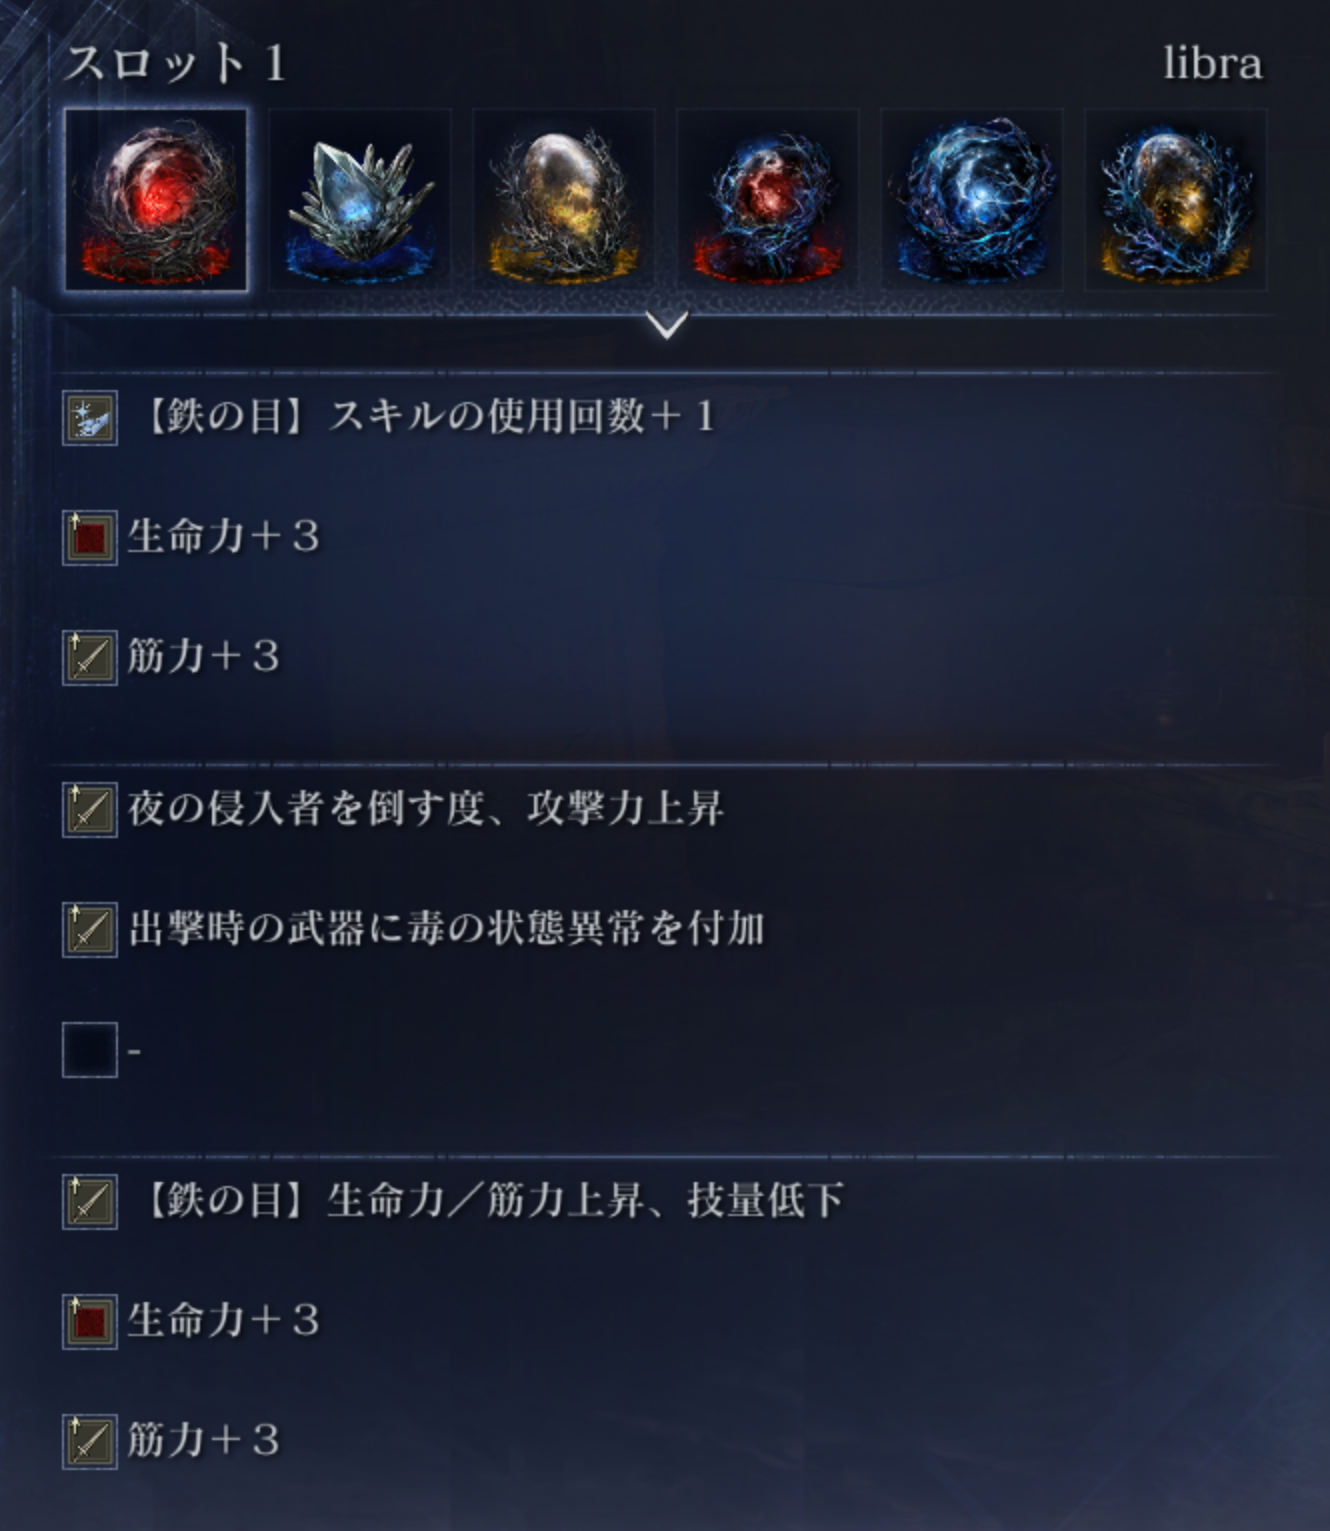
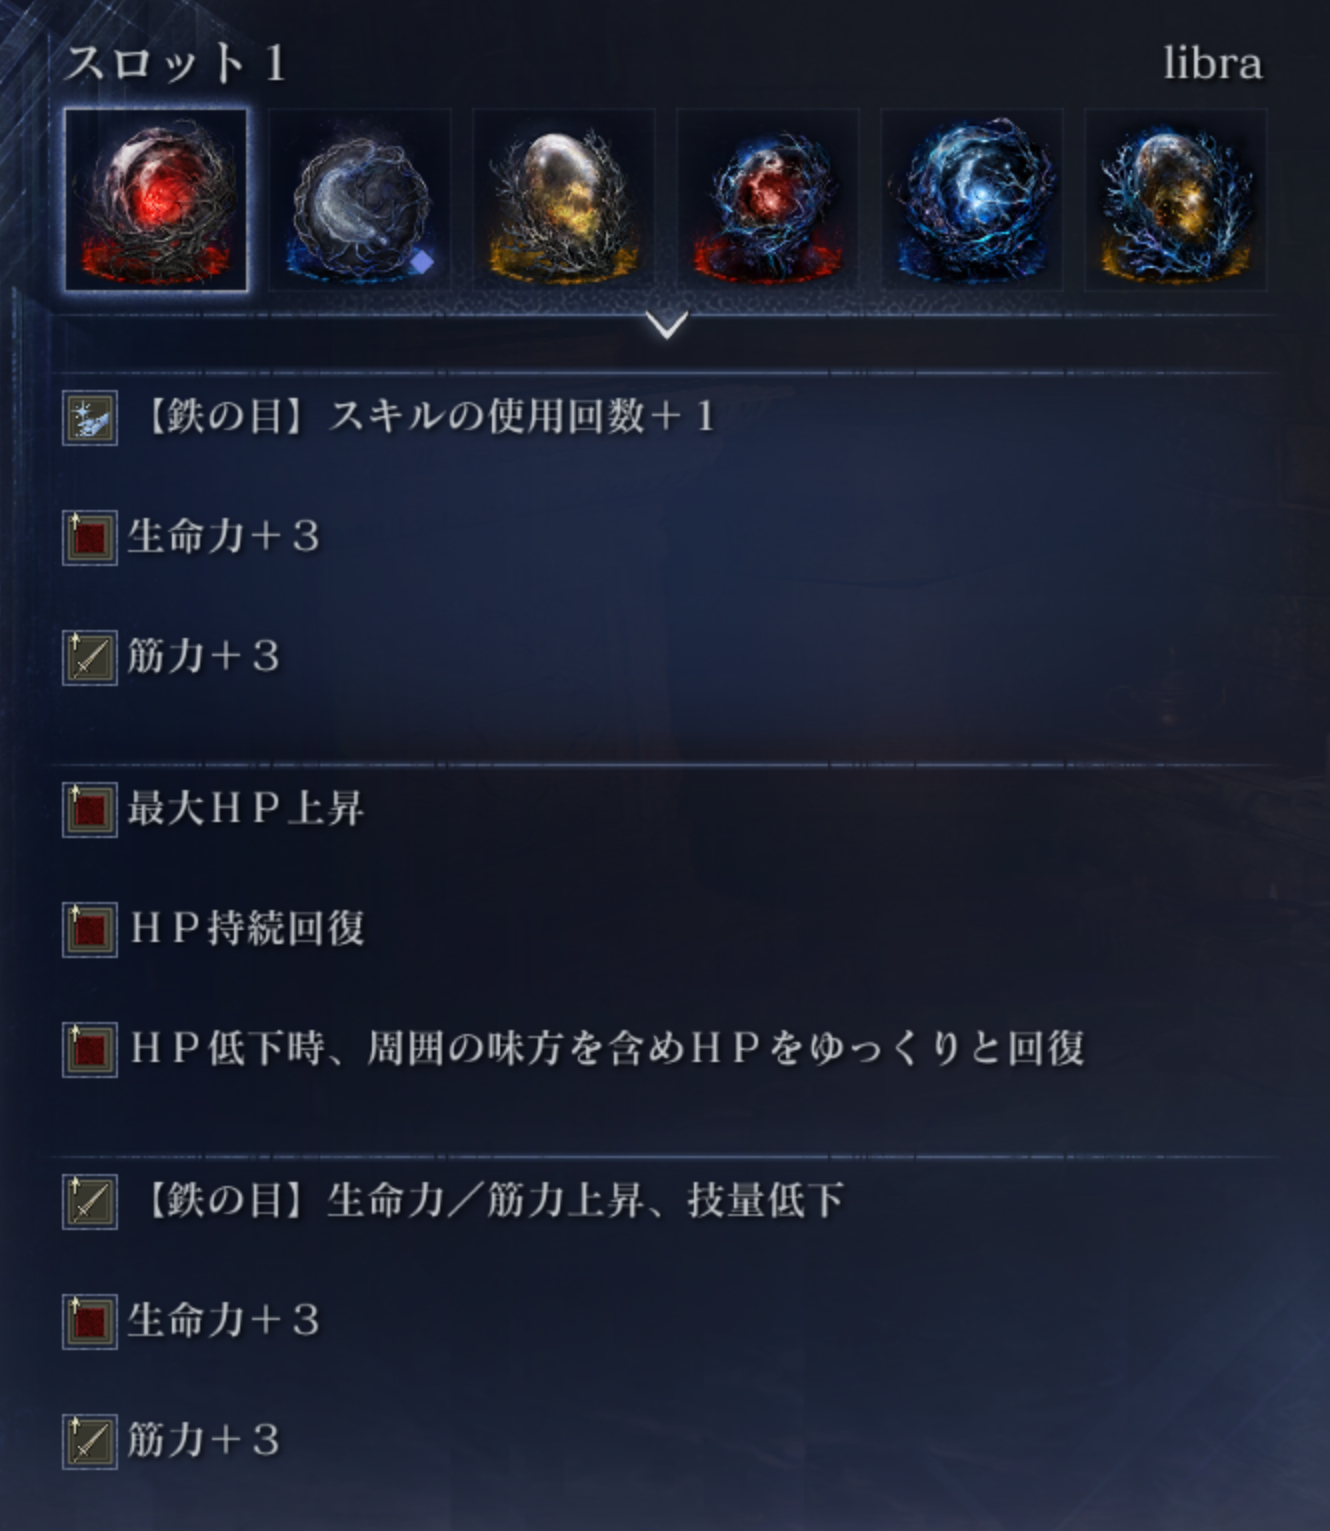
鉄の目リブラ1枚目の画像・HPを更新、faviconを円形トリミングに差し替え
- ironeye-libraの1枚目画像を新しいスクショに差し替え、HPを1379に修正
- assets/favicon.pngを新規作成(円形透過)、faviconをそちらに変更

diff --git a/index.html b/index.html
@@ -11,7 +11,7 @@
 <meta property="og:url" content="https://esusan.github.io/nightreign-relics/">
 <meta property="og:image" content="https://esusan.github.io/nightreign-relics/assets/ogp.jpg">
 <meta name="twitter:card" content="summary_large_image">
-<link rel="icon" href="assets/icon.jpg">
+<link rel="icon" href="assets/favicon.png">
 <link rel="stylesheet" href="style.css">
 </head>
 <body>
